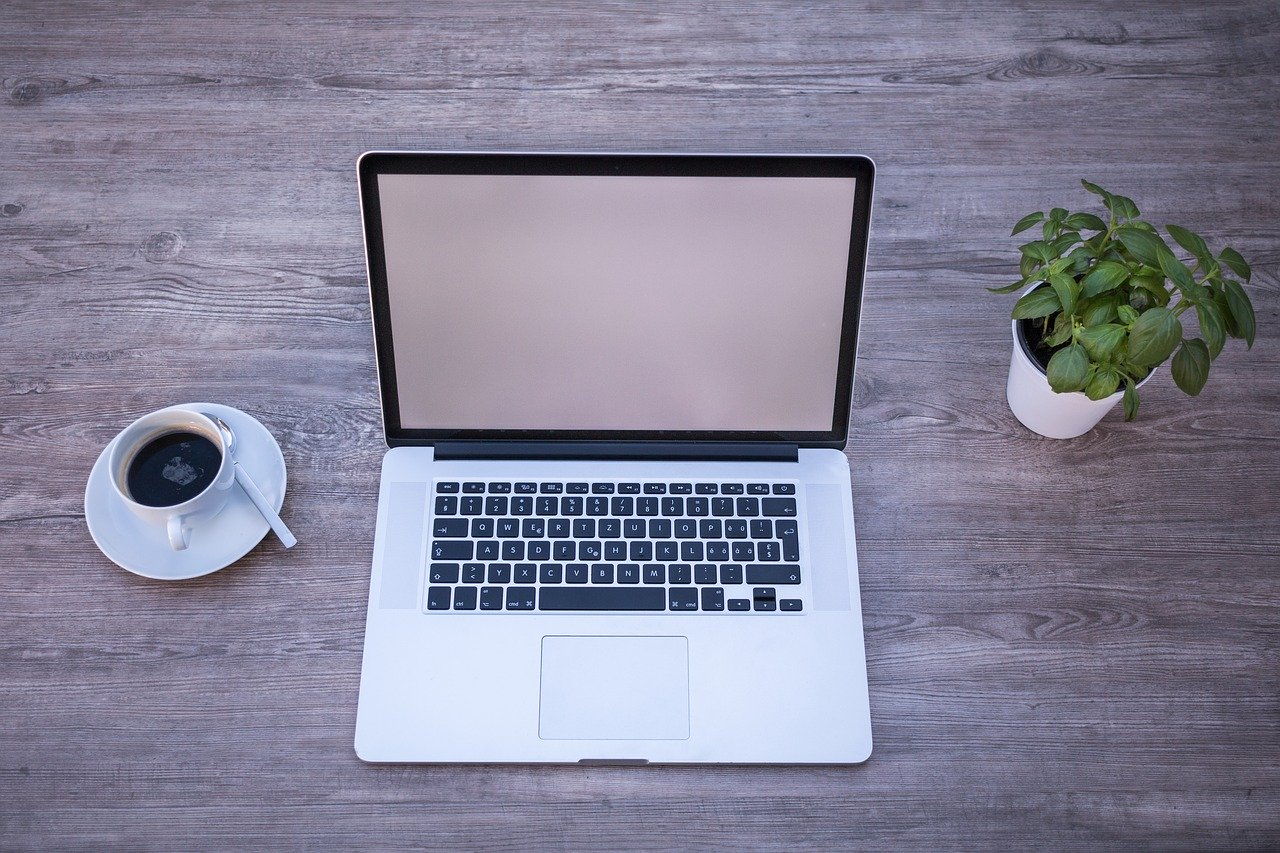
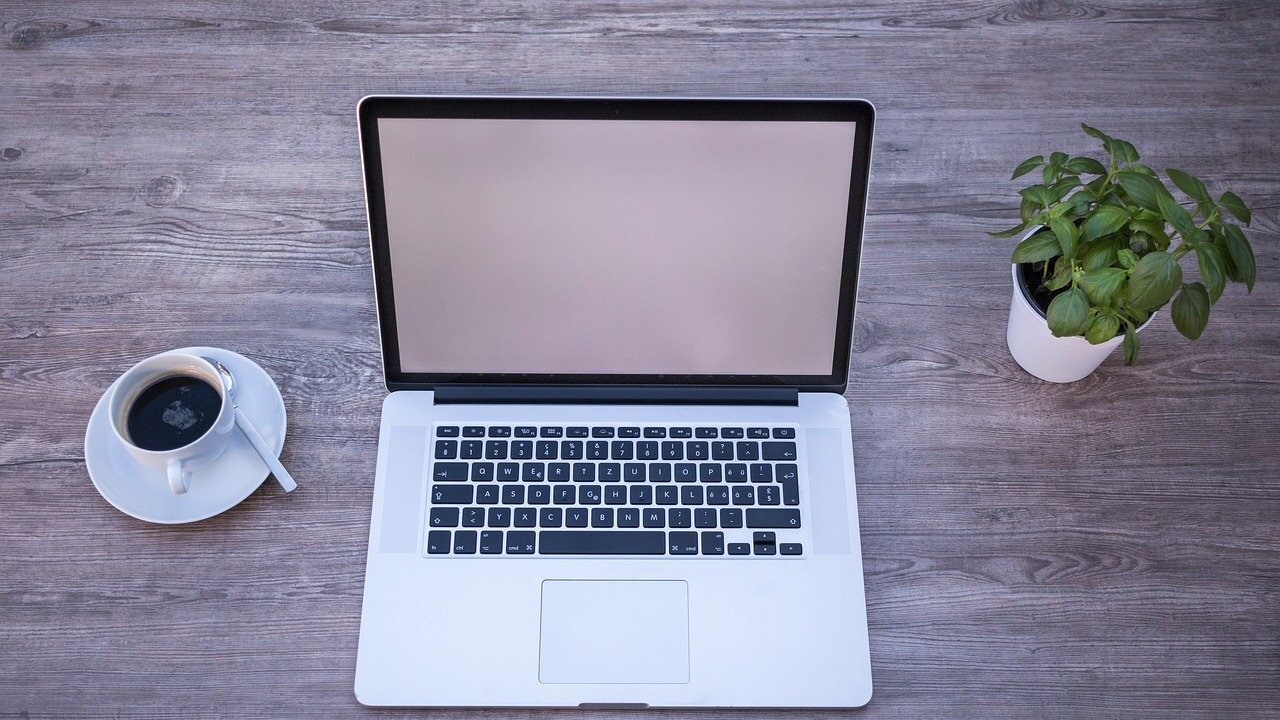
img: change preview images c6f26fabb779c7d7cf93e5ddfc898dea232567e0

diff --git a/what-is-runtime/index.html b/what-is-runtime/index.html
@@ -15,7 +15,7 @@
 <link rel=icon type=image/png sizes=32x32 href=/favicon-32x32.png>
 <link rel=icon type=image/png sizes=16x16 href=/favicon-16x16.png>
 <link rel=icon type=image/png sizes=192x192 href=/android-chrome-192x192.png>
-<link rel=icon type=image/png sizes=512x512 href=/android-chrome-512x512.png><link rel=apple-touch-icon sizes=180x180 href=/apple-touch-icon.png><link rel=mask-icon href=/safari-pinned-tab.svg color=#5bbad5><link rel=manifest href=/site.webmanifest><link rel=canonical href=https://ryderfang.com/what-is-runtime/><link rel=stylesheet href=/lib/normalize/normalize.min.css><link rel=stylesheet href=/lib/prismjs/prism.css><link rel=stylesheet href=/css/style.min.css><link rel=stylesheet href=/lib/animate/animate.min.css><script type=application/ld+json>{"@context":"http://schema.org","@type":"BlogPosting","headline":"ObjC 之 Runtime 是个啥","inLanguage":"zh-cn","mainEntityOfPage":{"@type":"WebPage","@id":"https:\/\/ryderfang.com\/what-is-runtime\/"},"image":[{"@type":"ImageObject","url":"https:\/\/ryderfang.com\/what-is-runtime\/featured-image.jpg","width":1280,"height":853}],"genre":"posts","keywords":"ObjC, Runtime","wordCount":583,"url":"https:\/\/ryderfang.com\/what-is-runtime\/","datePublished":"2021-12-28T14:51:24+08:00","dateModified":"2021-12-28T14:51:24+08:00","license":"This work is licensed under a Creative Commons Attribution-NonCommercial 4.0 International License.","publisher":{"@type":"Person","name":"","image":[{"@type":"ImageObject","url":"https:\/\/ryder-1252249141.cos.ap-shanghai.myqcloud.com\/uPic\/2021-11-05-avatar2.jpg"}]},"author":{"@type":"Person","name":""},"description":""}</script><script type=application/ld+json>{"@context":"https://schema.org","@type":"BreadcrumbList","itemListElement":[{"@type":"ListItem","position":1,"name":"主页","item":"https:\/\/ryderfang.com\/"},{"@type":"ListItem","position":2,"name":"ObjC","item":"https://ryderfang.com/categories/objc/"},{"@type":"ListItem","position":3,"name":"ObjC 之 Runtime 是个啥"}]}</script></head>
+<link rel=icon type=image/png sizes=512x512 href=/android-chrome-512x512.png><link rel=apple-touch-icon sizes=180x180 href=/apple-touch-icon.png><link rel=mask-icon href=/safari-pinned-tab.svg color=#5bbad5><link rel=manifest href=/site.webmanifest><link rel=canonical href=https://ryderfang.com/what-is-runtime/><link rel=stylesheet href=/lib/normalize/normalize.min.css><link rel=stylesheet href=/lib/prismjs/prism.css><link rel=stylesheet href=/css/style.min.css><link rel=stylesheet href=/lib/animate/animate.min.css><script type=application/ld+json>{"@context":"http://schema.org","@type":"BlogPosting","headline":"ObjC 之 Runtime 是个啥","inLanguage":"zh-cn","mainEntityOfPage":{"@type":"WebPage","@id":"https:\/\/ryderfang.com\/what-is-runtime\/"},"image":[{"@type":"ImageObject","url":"https:\/\/ryderfang.com\/what-is-runtime\/featured-image.jpg","width":1280,"height":720}],"genre":"posts","keywords":"ObjC, Runtime","wordCount":582,"url":"https:\/\/ryderfang.com\/what-is-runtime\/","datePublished":"2021-12-28T14:51:24+08:00","dateModified":"2021-12-28T14:51:24+08:00","license":"This work is licensed under a Creative Commons Attribution-NonCommercial 4.0 International License.","publisher":{"@type":"Person","name":"","image":[{"@type":"ImageObject","url":"https:\/\/ryder-1252249141.cos.ap-shanghai.myqcloud.com\/uPic\/2021-11-05-avatar2.jpg"}]},"author":{"@type":"Person","name":""},"description":""}</script><script type=application/ld+json>{"@context":"https://schema.org","@type":"BreadcrumbList","itemListElement":[{"@type":"ListItem","position":1,"name":"主页","item":"https:\/\/ryderfang.com\/"},{"@type":"ListItem","position":2,"name":"ObjC","item":"https://ryderfang.com/categories/objc/"},{"@type":"ListItem","position":3,"name":"ObjC 之 Runtime 是个啥"}]}</script></head>
 <body data-header-desktop=fixed data-header-mobile=auto><script>(window.localStorage&&localStorage.getItem('theme')?localStorage.getItem('theme')==='dark':'auto'==='auto'?window.matchMedia('(prefers-color-scheme: dark)').matches:'auto'==='dark')&&document.body.setAttribute('theme','dark')</script>
 <div id=mask></div><div class=wrapper><header>
 <div class="desktop header" id=header-desktop>
@@ -121,7 +121,7 @@
 </span><span class="post-meta-date meta-item">
 <span class="svg-icon icon-clock"></span><time class=timeago datetime=2021-12-28>2021-12-28</time>
 </span><span class="post-meta-words meta-item">
-<span class="svg-icon icon-pencil"></span>约 583 字
+<span class="svg-icon icon-pencil"></span>约 582 字
 </span>
 <span class="post-meta-reading meta-item">
 <span class="svg-icon icon-stopwatch"></span>预计阅读 2 分钟
@@ -176,7 +176,7 @@
 <p><a href=https://blog.youxu.info/2010/02/28/why-mac-os-x-for-programmers/ target=_blank rel="noopener noreffer">SmallTalk 领先了时代 20 年</a>，至今 OC 仍然没有实现它的全部特性。</p>
 <h2 id=runtime-version class=headerLink><a href=#runtime-version class=header-mark></a>Runtime Version</h2><p>存在两个版本的 Runtime，<code>modern</code> 和 <code>legacy</code>：</p>
 <p><a href=https://developer.apple.com/library/archive/documentation/Cocoa/Conceptual/ObjCRuntimeGuide/Articles/ocrtVersionsPlatforms.html#//apple_ref/doc/uid/TP40008048-CH106-SW1 target=_blank rel="noopener noreffer">https://developer.apple.com/library/archive/documentation/Cocoa/Conceptual/ObjCRuntimeGuide/Articles/ocrtVersionsPlatforms.html#//apple_ref/doc/uid/TP40008048-CH106-SW1</a></p>
-<p>按照官方的说明，iPhone 和 10.5 版本之后的 64 位程序都使用的 OC 2.0。</p>
+<p>按照官方的说明，所有 iPhone 和 10.5 版本之后的 Mac OSX 64 位程序都使用的 OC 2.0。</p>
 <p>Runtime 源码: <a href=https://opensource.apple.com/source/objc4/ target=_blank rel="noopener noreffer">https://opensource.apple.com/source/objc4/</a></p>
 <p>下载 tarballs: <a href=https://opensource.apple.com/tarballs/objc4/ target=_blank rel="noopener noreffer">https://opensource.apple.com/tarballs/objc4/</a></p>
 <p>可调试项目: <a href=https://github.com/RetVal/objc-runtime target=_blank rel="noopener noreffer">https://github.com/RetVal/objc-runtime</a></p>

diff --git a/class-object-isa/index.html b/class-object-isa/index.html
@@ -2,12 +2,12 @@
 <head>
 <meta charset=utf-8>
 <meta name=viewport content="width=device-width,initial-scale=1"><meta name=robots content="noodp"><title>Class, Object 与 isa | 热爱可抵岁月漫长</title><meta name=twitter:card content="summary_large_image">
-<meta name=twitter:image content="https://ryderfang.com/class-object-isa/featured-image.png">
+<meta name=twitter:image content="https://ryderfang.com/class-object-isa/featured-image.jpg">
 <meta name=twitter:title content="Class, Object 与 isa">
 <meta name=twitter:description content><meta name=twitter:creator content="@ryderfang"><meta name=Description content="About uBlogger Theme"><meta property="og:title" content="Class, Object 与 isa">
 <meta property="og:description" content="作为 Runtime 系列的第一篇博文（也是 2022 年第一篇），先从最基础的对象、类开始学习。 参考 OC 编译过程 我们可以借助 clang 工具将 OC 源码预处理成 CPP 来窥探 OC 的内部实现">
 <meta property="og:type" content="article">
-<meta property="og:url" content="https://ryderfang.com/class-object-isa/"><meta property="og:image" content="https://ryderfang.com/class-object-isa/featured-image.png"><meta property="article:section" content="posts">
+<meta property="og:url" content="https://ryderfang.com/class-object-isa/"><meta property="og:image" content="https://ryderfang.com/class-object-isa/featured-image.jpg"><meta property="article:section" content="posts">
 <meta property="article:published_time" content="2022-01-04T20:19:38+08:00">
 <meta property="article:modified_time" content="2022-01-04T20:19:38+08:00"><meta property="og:site_name" content="热爱可抵岁月漫长">
 <meta name=application-name content="uBlogger">
@@ -15,7 +15,7 @@
 <link rel=icon type=image/png sizes=32x32 href=/favicon-32x32.png>
 <link rel=icon type=image/png sizes=16x16 href=/favicon-16x16.png>
 <link rel=icon type=image/png sizes=192x192 href=/android-chrome-192x192.png>
-<link rel=icon type=image/png sizes=512x512 href=/android-chrome-512x512.png><link rel=apple-touch-icon sizes=180x180 href=/apple-touch-icon.png><link rel=mask-icon href=/safari-pinned-tab.svg color=#5bbad5><link rel=manifest href=/site.webmanifest><link rel=canonical href=https://ryderfang.com/class-object-isa/><link rel=stylesheet href=/lib/normalize/normalize.min.css><link rel=stylesheet href=/lib/prismjs/prism.css><link rel=stylesheet href=/css/style.min.css><link rel=stylesheet href=/lib/animate/animate.min.css><script type=application/ld+json>{"@context":"http://schema.org","@type":"BlogPosting","headline":"Class, Object 与 isa","inLanguage":"zh-cn","mainEntityOfPage":{"@type":"WebPage","@id":"https:\/\/ryderfang.com\/class-object-isa\/"},"image":[{"@type":"ImageObject","url":"https:\/\/ryderfang.com\/class-object-isa\/featured-image.png","width":1506,"height":782}],"genre":"posts","wordCount":1072,"url":"https:\/\/ryderfang.com\/class-object-isa\/","datePublished":"2022-01-04T20:19:38+08:00","dateModified":"2022-01-04T20:19:38+08:00","license":"This work is licensed under a Creative Commons Attribution-NonCommercial 4.0 International License.","publisher":{"@type":"Person","name":"","image":[{"@type":"ImageObject","url":"https:\/\/ryder-1252249141.cos.ap-shanghai.myqcloud.com\/uPic\/2021-11-05-avatar2.jpg"}]},"author":{"@type":"Person","name":""},"description":""}</script></head>
+<link rel=icon type=image/png sizes=512x512 href=/android-chrome-512x512.png><link rel=apple-touch-icon sizes=180x180 href=/apple-touch-icon.png><link rel=mask-icon href=/safari-pinned-tab.svg color=#5bbad5><link rel=manifest href=/site.webmanifest><link rel=canonical href=https://ryderfang.com/class-object-isa/><link rel=stylesheet href=/lib/normalize/normalize.min.css><link rel=stylesheet href=/lib/prismjs/prism.css><link rel=stylesheet href=/css/style.min.css><link rel=stylesheet href=/lib/animate/animate.min.css><script type=application/ld+json>{"@context":"http://schema.org","@type":"BlogPosting","headline":"Class, Object 与 isa","inLanguage":"zh-cn","mainEntityOfPage":{"@type":"WebPage","@id":"https:\/\/ryderfang.com\/class-object-isa\/"},"image":[{"@type":"ImageObject","url":"https:\/\/ryderfang.com\/class-object-isa\/featured-image.jpg","width":1600,"height":900}],"genre":"posts","wordCount":1072,"url":"https:\/\/ryderfang.com\/class-object-isa\/","datePublished":"2022-01-04T20:19:38+08:00","dateModified":"2022-01-04T20:19:38+08:00","license":"This work is licensed under a Creative Commons Attribution-NonCommercial 4.0 International License.","publisher":{"@type":"Person","name":"","image":[{"@type":"ImageObject","url":"https:\/\/ryder-1252249141.cos.ap-shanghai.myqcloud.com\/uPic\/2021-11-05-avatar2.jpg"}]},"author":{"@type":"Person","name":""},"description":""}</script></head>
 <body data-header-desktop=fixed data-header-mobile=auto><script>(window.localStorage&&localStorage.getItem('theme')?localStorage.getItem('theme')==='dark':'auto'==='auto'?window.matchMedia('(prefers-color-scheme: dark)').matches:'auto'==='dark')&&document.body.setAttribute('theme','dark')</script>
 <div id=mask></div><div class=wrapper><header>
 <div class="desktop header" id=header-desktop>
@@ -131,7 +131,7 @@
 <div class="article-post toc-start">
 <div class="content-block content-block-first content-block-position">
 <div class="post single"><div class=image-theme-classic>
-<img src=https://ryderfang.com/class-object-isa/featured-image.png style=width:100%>
+<img src=https://ryderfang.com/class-object-isa/featured-image.jpg style=width:100%>
 </div><div class="details toc" id=toc-static data-kept>
 <div class="details-summary toc-title">
 <span>目录</span>

diff --git a/index.html b/index.html
@@ -109,7 +109,7 @@
 </aside>
 <article itemscope itemtype=http://schema.org/Article>
 <div class="summary summary-animation" style=margin-bottom:0>
-<header><div class=featured-image-preview><a href=/class-object-isa/ target=_self><img loading=lazy decoding=async src=/class-object-isa/featured-image_hued520925d6e88d23cd28153f9be969dc_248667_796x238_fill_q90_box_center_3.png alt="Class, Object 与 isa" title="Class, Object 与 isa" height=798 width=238></a>
+<header><div class=featured-image-preview><a href=/class-object-isa/ target=_self><img loading=lazy decoding=async src=/class-object-isa/featured-image_hue46d1c81c1d52c68cb6a157794d24e27_60802_796x238_fill_q90_box_center.jpg alt="Class, Object 与 isa" title="Class, Object 与 isa" height=798 width=238></a>
 </div><div style=padding-top:20px;padding-left:20px;padding-right:20px><h2 class=summary-title itemprop="name headline">
 <a href=/class-object-isa/ target=_self>Class, Object 与 isa</a>
 </h2><div class="post-meta summary-post-meta"><span class="meta-item post-author"><a href=https://github.com/ryderfang/ title=Author target=_blank rel="noopener noreffer author" class=author><span class="svg-icon icon-pencil"></span>ryder</a></span><span class="meta-item post-publish"><span class="svg-icon icon-clock"></span><time class=timeago datetime=2022-01-04>2022-01-04</time></span></div></div>
@@ -135,7 +135,7 @@
 </article>
 <article itemscope itemtype=http://schema.org/Article>
 <div class="summary summary-animation" style=margin-bottom:0>
-<header><div class=featured-image-preview><div class=post-tags-summary-image><a class=post-tag-summary href=/tags/objc/><span>ObjC</span></a><a class=post-tag-summary href=/tags/runtime/><span>Runtime</span></a></div><a href=/what-is-runtime/ target=_self><img loading=lazy decoding=async src=/what-is-runtime/featured-image_huc3c89d392d112f379561867254f16639_260251_796x238_fill_q90_box_center.jpg alt="ObjC 之 Runtime 是个啥" title="ObjC 之 Runtime 是个啥" height=798 width=238></a>
+<header><div class=featured-image-preview><div class=post-tags-summary-image><a class=post-tag-summary href=/tags/objc/><span>ObjC</span></a><a class=post-tag-summary href=/tags/runtime/><span>Runtime</span></a></div><a href=/what-is-runtime/ target=_self><img loading=lazy decoding=async src=/what-is-runtime/featured-image_huce24f78530aa4fb0d20f0fa969b67ab6_228790_796x238_fill_q90_box_center.jpg alt="ObjC 之 Runtime 是个啥" title="ObjC 之 Runtime 是个啥" height=798 width=238></a>
 </div><div style=padding-top:20px;padding-left:20px;padding-right:20px><h2 class=summary-title itemprop="name headline">
 <a href=/what-is-runtime/ target=_self>ObjC 之 Runtime 是个啥</a>
 </h2><div class="post-meta summary-post-meta"><span class="meta-item post-category">
@@ -166,7 +166,7 @@
 </article>
 <article itemscope itemtype=http://schema.org/Article>
 <div class="summary summary-animation" style=margin-bottom:0>
-<header><div class=featured-image-preview><div class=post-tags-summary-image><a class=post-tag-summary href=/tags/flag/><span>Flag</span></a></div><a href=/2021-personal-challeng/ target=_self><img loading=lazy decoding=async src=/2021-personal-challeng/featured-image_hu28974b76c8f78030ff2b69e65516ed32_362300_796x238_fill_q90_box_center.jpg alt="2021 个人目标 🎯" title="2021 个人目标 🎯" height=798 width=238></a>
+<header><div class=featured-image-preview><div class=post-tags-summary-image><a class=post-tag-summary href=/tags/flag/><span>Flag</span></a></div><a href=/2021-personal-challeng/ target=_self><img loading=lazy decoding=async src=/2021-personal-challeng/featured-image_hu03b188f4467ebd00703629b8b4070c2b_325779_796x238_fill_q90_box_center.jpg alt="2021 个人目标 🎯" title="2021 个人目标 🎯" height=798 width=238></a>
 </div><div style=padding-top:20px;padding-left:20px;padding-right:20px><h2 class=summary-title itemprop="name headline">
 <a href=/2021-personal-challeng/ target=_self>2021 个人目标 🎯</a>
 </h2><div class="post-meta summary-post-meta"><span class="meta-item post-category">
@@ -181,7 +181,7 @@
 </article>
 <article itemscope itemtype=http://schema.org/Article>
 <div class="summary summary-animation" style=margin-bottom:0>
-<header><div class=featured-image-preview><div class=post-tags-summary-image><a class=post-tag-summary href=/tags/flag/><span>Flag</span></a></div><a href=/2018-personal-challenge/ target=_self><img loading=lazy decoding=async src=/2018-personal-challenge/featured-image_hu890bbee8673510d6bf42931b6835408f_238589_796x238_fill_q90_box_center.jpg alt="2018 个人目标 🎯" title="2018 个人目标 🎯" height=798 width=238></a>
+<header><div class=featured-image-preview><div class=post-tags-summary-image><a class=post-tag-summary href=/tags/flag/><span>Flag</span></a></div><a href=/2018-personal-challenge/ target=_self><img loading=lazy decoding=async src=/2018-personal-challenge/featured-image_huf203e1bddf890021bde71361abf4e81a_162286_796x238_fill_q90_box_center.jpg alt="2018 个人目标 🎯" title="2018 个人目标 🎯" height=798 width=238></a>
 </div><div style=padding-top:20px;padding-left:20px;padding-right:20px><h2 class=summary-title itemprop="name headline">
 <a href=/2018-personal-challenge/ target=_self>2018 个人目标 🎯</a>
 </h2><div class="post-meta summary-post-meta"><span class="meta-item post-category">

diff --git a/chromium-api-keys/index.html b/chromium-api-keys/index.html
@@ -15,7 +15,7 @@
 <link rel=icon type=image/png sizes=32x32 href=/favicon-32x32.png>
 <link rel=icon type=image/png sizes=16x16 href=/favicon-16x16.png>
 <link rel=icon type=image/png sizes=192x192 href=/android-chrome-192x192.png>
-<link rel=icon type=image/png sizes=512x512 href=/android-chrome-512x512.png><link rel=apple-touch-icon sizes=180x180 href=/apple-touch-icon.png><link rel=mask-icon href=/safari-pinned-tab.svg color=#5bbad5><link rel=manifest href=/site.webmanifest><link rel=canonical href=https://ryderfang.com/chromium-api-keys/><link rel=stylesheet href=/lib/normalize/normalize.min.css><link rel=stylesheet href=/lib/prismjs/prism.css><link rel=stylesheet href=/css/style.min.css><link rel=stylesheet href=/lib/animate/animate.min.css><script type=application/ld+json>{"@context":"http://schema.org","@type":"BlogPosting","headline":"Chromium 缺少 Google API 密钥解决办法","inLanguage":"zh-cn","mainEntityOfPage":{"@type":"WebPage","@id":"https:\/\/ryderfang.com\/chromium-api-keys\/"},"image":[{"@type":"ImageObject","url":"https:\/\/ryderfang.com\/chromium-api-keys\/featured-image.jpg","width":1500,"height":1e3}],"genre":"posts","keywords":"Chrome","wordCount":389,"url":"https:\/\/ryderfang.com\/chromium-api-keys\/","datePublished":"2018-01-26T20:19:18+08:00","dateModified":"2018-01-26T20:19:18+08:00","license":"This work is licensed under a Creative Commons Attribution-NonCommercial 4.0 International License.","publisher":{"@type":"Person","name":"","image":[{"@type":"ImageObject","url":"https:\/\/ryder-1252249141.cos.ap-shanghai.myqcloud.com\/uPic\/2021-11-05-avatar2.jpg"}]},"author":{"@type":"Person","name":""},"description":""}</script><script type=application/ld+json>{"@context":"https://schema.org","@type":"BreadcrumbList","itemListElement":[{"@type":"ListItem","position":1,"name":"主页","item":"https:\/\/ryderfang.com\/"},{"@type":"ListItem","position":2,"name":"RTFM","item":"https://ryderfang.com/categories/rtfm/"},{"@type":"ListItem","position":3,"name":"Chromium 缺少 Google API 密钥解决办法"}]}</script></head>
+<link rel=icon type=image/png sizes=512x512 href=/android-chrome-512x512.png><link rel=apple-touch-icon sizes=180x180 href=/apple-touch-icon.png><link rel=mask-icon href=/safari-pinned-tab.svg color=#5bbad5><link rel=manifest href=/site.webmanifest><link rel=canonical href=https://ryderfang.com/chromium-api-keys/><link rel=stylesheet href=/lib/normalize/normalize.min.css><link rel=stylesheet href=/lib/prismjs/prism.css><link rel=stylesheet href=/css/style.min.css><link rel=stylesheet href=/lib/animate/animate.min.css><script type=application/ld+json>{"@context":"http://schema.org","@type":"BlogPosting","headline":"Chromium 缺少 Google API 密钥解决办法","inLanguage":"zh-cn","mainEntityOfPage":{"@type":"WebPage","@id":"https:\/\/ryderfang.com\/chromium-api-keys\/"},"image":[{"@type":"ImageObject","url":"https:\/\/ryderfang.com\/chromium-api-keys\/featured-image.jpg","width":1500,"height":844}],"genre":"posts","keywords":"Chrome","wordCount":389,"url":"https:\/\/ryderfang.com\/chromium-api-keys\/","datePublished":"2018-01-26T20:19:18+08:00","dateModified":"2018-01-26T20:19:18+08:00","license":"This work is licensed under a Creative Commons Attribution-NonCommercial 4.0 International License.","publisher":{"@type":"Person","name":"","image":[{"@type":"ImageObject","url":"https:\/\/ryder-1252249141.cos.ap-shanghai.myqcloud.com\/uPic\/2021-11-05-avatar2.jpg"}]},"author":{"@type":"Person","name":""},"description":""}</script><script type=application/ld+json>{"@context":"https://schema.org","@type":"BreadcrumbList","itemListElement":[{"@type":"ListItem","position":1,"name":"主页","item":"https:\/\/ryderfang.com\/"},{"@type":"ListItem","position":2,"name":"RTFM","item":"https://ryderfang.com/categories/rtfm/"},{"@type":"ListItem","position":3,"name":"Chromium 缺少 Google API 密钥解决办法"}]}</script></head>
 <body data-header-desktop=fixed data-header-mobile=auto><script>(window.localStorage&&localStorage.getItem('theme')?localStorage.getItem('theme')==='dark':'auto'==='auto'?window.matchMedia('(prefers-color-scheme: dark)').matches:'auto'==='dark')&&document.body.setAttribute('theme','dark')</script>
 <div id=mask></div><div class=wrapper><header>
 <div class="desktop header" id=header-desktop>

diff --git a/2021-personal-challeng/index.html b/2021-personal-challeng/index.html
@@ -15,7 +15,7 @@
 <link rel=icon type=image/png sizes=32x32 href=/favicon-32x32.png>
 <link rel=icon type=image/png sizes=16x16 href=/favicon-16x16.png>
 <link rel=icon type=image/png sizes=192x192 href=/android-chrome-192x192.png>
-<link rel=icon type=image/png sizes=512x512 href=/android-chrome-512x512.png><link rel=apple-touch-icon sizes=180x180 href=/apple-touch-icon.png><link rel=mask-icon href=/safari-pinned-tab.svg color=#5bbad5><link rel=manifest href=/site.webmanifest><link rel=canonical href=https://ryderfang.com/2021-personal-challeng/><link rel=stylesheet href=/lib/normalize/normalize.min.css><link rel=stylesheet href=/lib/prismjs/prism.css><link rel=stylesheet href=/css/style.min.css><link rel=stylesheet href=/lib/animate/animate.min.css><script type=application/ld+json>{"@context":"http://schema.org","@type":"BlogPosting","headline":"2021 个人目标 🎯","inLanguage":"zh-cn","mainEntityOfPage":{"@type":"WebPage","@id":"https:\/\/ryderfang.com\/2021-personal-challeng\/"},"image":[{"@type":"ImageObject","url":"https:\/\/ryderfang.com\/2021-personal-challeng\/featured-image.jpg","width":1200,"height":800}],"genre":"posts","keywords":"Flag","wordCount":1091,"url":"https:\/\/ryderfang.com\/2021-personal-challeng\/","datePublished":"2021-11-16T16:32:25+08:00","dateModified":"2022-01-13T11:44:00+08:00","license":"This work is licensed under a Creative Commons Attribution-NonCommercial 4.0 International License.","publisher":{"@type":"Person","name":"","image":[{"@type":"ImageObject","url":"https:\/\/ryder-1252249141.cos.ap-shanghai.myqcloud.com\/uPic\/2021-11-05-avatar2.jpg"}]},"author":{"@type":"Person","name":""},"description":""}</script><script type=application/ld+json>{"@context":"https://schema.org","@type":"BreadcrumbList","itemListElement":[{"@type":"ListItem","position":1,"name":"主页","item":"https:\/\/ryderfang.com\/"},{"@type":"ListItem","position":2,"name":"Challenge","item":"https://ryderfang.com/categories/challenge/"},{"@type":"ListItem","position":3,"name":"2021 个人目标 🎯"}]}</script></head>
+<link rel=icon type=image/png sizes=512x512 href=/android-chrome-512x512.png><link rel=apple-touch-icon sizes=180x180 href=/apple-touch-icon.png><link rel=mask-icon href=/safari-pinned-tab.svg color=#5bbad5><link rel=manifest href=/site.webmanifest><link rel=canonical href=https://ryderfang.com/2021-personal-challeng/><link rel=stylesheet href=/lib/normalize/normalize.min.css><link rel=stylesheet href=/lib/prismjs/prism.css><link rel=stylesheet href=/css/style.min.css><link rel=stylesheet href=/lib/animate/animate.min.css><script type=application/ld+json>{"@context":"http://schema.org","@type":"BlogPosting","headline":"2021 个人目标 🎯","inLanguage":"zh-cn","mainEntityOfPage":{"@type":"WebPage","@id":"https:\/\/ryderfang.com\/2021-personal-challeng\/"},"image":[{"@type":"ImageObject","url":"https:\/\/ryderfang.com\/2021-personal-challeng\/featured-image.jpg","width":1200,"height":675}],"genre":"posts","keywords":"Flag","wordCount":1091,"url":"https:\/\/ryderfang.com\/2021-personal-challeng\/","datePublished":"2021-11-16T16:32:25+08:00","dateModified":"2022-01-13T11:44:00+08:00","license":"This work is licensed under a Creative Commons Attribution-NonCommercial 4.0 International License.","publisher":{"@type":"Person","name":"","image":[{"@type":"ImageObject","url":"https:\/\/ryder-1252249141.cos.ap-shanghai.myqcloud.com\/uPic\/2021-11-05-avatar2.jpg"}]},"author":{"@type":"Person","name":""},"description":""}</script><script type=application/ld+json>{"@context":"https://schema.org","@type":"BreadcrumbList","itemListElement":[{"@type":"ListItem","position":1,"name":"主页","item":"https:\/\/ryderfang.com\/"},{"@type":"ListItem","position":2,"name":"Challenge","item":"https://ryderfang.com/categories/challenge/"},{"@type":"ListItem","position":3,"name":"2021 个人目标 🎯"}]}</script></head>
 <body data-header-desktop=fixed data-header-mobile=auto><script>(window.localStorage&&localStorage.getItem('theme')?localStorage.getItem('theme')==='dark':'auto'==='auto'?window.matchMedia('(prefers-color-scheme: dark)').matches:'auto'==='dark')&&document.body.setAttribute('theme','dark')</script>
 <div id=mask></div><div class=wrapper><header>
 <div class="desktop header" id=header-desktop>

diff --git a/hexo-workflow/index.html b/hexo-workflow/index.html
@@ -23,7 +23,7 @@ $ hexo new page [name] - 新建页面
 <link rel=icon type=image/png sizes=32x32 href=/favicon-32x32.png>
 <link rel=icon type=image/png sizes=16x16 href=/favicon-16x16.png>
 <link rel=icon type=image/png sizes=192x192 href=/android-chrome-192x192.png>
-<link rel=icon type=image/png sizes=512x512 href=/android-chrome-512x512.png><link rel=apple-touch-icon sizes=180x180 href=/apple-touch-icon.png><link rel=mask-icon href=/safari-pinned-tab.svg color=#5bbad5><link rel=manifest href=/site.webmanifest><link rel=canonical href=https://ryderfang.com/hexo-workflow/><link rel=stylesheet href=/lib/normalize/normalize.min.css><link rel=stylesheet href=/lib/prismjs/prism.css><link rel=stylesheet href=/css/style.min.css><link rel=stylesheet href=/lib/animate/animate.min.css><script type=application/ld+json>{"@context":"http://schema.org","@type":"BlogPosting","headline":"使用 Hexo 遇到的一些问题","inLanguage":"zh-cn","mainEntityOfPage":{"@type":"WebPage","@id":"https:\/\/ryderfang.com\/hexo-workflow\/"},"image":[{"@type":"ImageObject","url":"https:\/\/ryderfang.com\/hexo-workflow\/featured-image.jpg","width":1896,"height":948}],"genre":"posts","keywords":"Hexo, Blog","wordCount":1e3,"url":"https:\/\/ryderfang.com\/hexo-workflow\/","datePublished":"2017-09-27T20:04:57+08:00","dateModified":"2017-09-27T20:04:57+08:00","license":"This work is licensed under a Creative Commons Attribution-NonCommercial 4.0 International License.","publisher":{"@type":"Person","name":"","image":[{"@type":"ImageObject","url":"https:\/\/ryder-1252249141.cos.ap-shanghai.myqcloud.com\/uPic\/2021-11-05-avatar2.jpg"}]},"author":{"@type":"Person","name":""},"description":""}</script><script type=application/ld+json>{"@context":"https://schema.org","@type":"BreadcrumbList","itemListElement":[{"@type":"ListItem","position":1,"name":"主页","item":"https:\/\/ryderfang.com\/"},{"@type":"ListItem","position":2,"name":"RTFM","item":"https://ryderfang.com/categories/rtfm/"},{"@type":"ListItem","position":3,"name":"使用 Hexo 遇到的一些问题"}]}</script></head>
+<link rel=icon type=image/png sizes=512x512 href=/android-chrome-512x512.png><link rel=apple-touch-icon sizes=180x180 href=/apple-touch-icon.png><link rel=mask-icon href=/safari-pinned-tab.svg color=#5bbad5><link rel=manifest href=/site.webmanifest><link rel=canonical href=https://ryderfang.com/hexo-workflow/><link rel=stylesheet href=/lib/normalize/normalize.min.css><link rel=stylesheet href=/lib/prismjs/prism.css><link rel=stylesheet href=/css/style.min.css><link rel=stylesheet href=/lib/animate/animate.min.css><script type=application/ld+json>{"@context":"http://schema.org","@type":"BlogPosting","headline":"使用 Hexo 遇到的一些问题","inLanguage":"zh-cn","mainEntityOfPage":{"@type":"WebPage","@id":"https:\/\/ryderfang.com\/hexo-workflow\/"},"image":[{"@type":"ImageObject","url":"https:\/\/ryderfang.com\/hexo-workflow\/featured-image.jpg","width":848,"height":477}],"genre":"posts","keywords":"Hexo, Blog","wordCount":1e3,"url":"https:\/\/ryderfang.com\/hexo-workflow\/","datePublished":"2017-09-27T20:04:57+08:00","dateModified":"2017-09-27T20:04:57+08:00","license":"This work is licensed under a Creative Commons Attribution-NonCommercial 4.0 International License.","publisher":{"@type":"Person","name":"","image":[{"@type":"ImageObject","url":"https:\/\/ryder-1252249141.cos.ap-shanghai.myqcloud.com\/uPic\/2021-11-05-avatar2.jpg"}]},"author":{"@type":"Person","name":""},"description":""}</script><script type=application/ld+json>{"@context":"https://schema.org","@type":"BreadcrumbList","itemListElement":[{"@type":"ListItem","position":1,"name":"主页","item":"https:\/\/ryderfang.com\/"},{"@type":"ListItem","position":2,"name":"RTFM","item":"https://ryderfang.com/categories/rtfm/"},{"@type":"ListItem","position":3,"name":"使用 Hexo 遇到的一些问题"}]}</script></head>
 <body data-header-desktop=fixed data-header-mobile=auto><script>(window.localStorage&&localStorage.getItem('theme')?localStorage.getItem('theme')==='dark':'auto'==='auto'?window.matchMedia('(prefers-color-scheme: dark)').matches:'auto'==='dark')&&document.body.setAttribute('theme','dark')</script>
 <div id=mask></div><div class=wrapper><header>
 <div class="desktop header" id=header-desktop>

diff --git a/vue-devtools/index.html b/vue-devtools/index.html
@@ -16,7 +16,7 @@
 <link rel=icon type=image/png sizes=32x32 href=/favicon-32x32.png>
 <link rel=icon type=image/png sizes=16x16 href=/favicon-16x16.png>
 <link rel=icon type=image/png sizes=192x192 href=/android-chrome-192x192.png>
-<link rel=icon type=image/png sizes=512x512 href=/android-chrome-512x512.png><link rel=apple-touch-icon sizes=180x180 href=/apple-touch-icon.png><link rel=mask-icon href=/safari-pinned-tab.svg color=#5bbad5><link rel=manifest href=/site.webmanifest><link rel=canonical href=https://ryderfang.com/vue-devtools/><link rel=stylesheet href=/lib/normalize/normalize.min.css><link rel=stylesheet href=/lib/prismjs/prism.css><link rel=stylesheet href=/css/style.min.css><link rel=stylesheet href=/lib/animate/animate.min.css><script type=application/ld+json>{"@context":"http://schema.org","@type":"BlogPosting","headline":"Vue 调试工具 Devtools","inLanguage":"zh-cn","mainEntityOfPage":{"@type":"WebPage","@id":"https:\/\/ryderfang.com\/vue-devtools\/"},"image":[{"@type":"ImageObject","url":"https:\/\/ryderfang.com\/vue-devtools\/featured-image.jpg","width":1400,"height":1120}],"genre":"posts","keywords":"Vue, Front-End","wordCount":457,"url":"https:\/\/ryderfang.com\/vue-devtools\/","datePublished":"2018-01-24T20:09:09+08:00","dateModified":"2021-11-12T11:26:13+08:00","license":"This work is licensed under a Creative Commons Attribution-NonCommercial 4.0 International License.","publisher":{"@type":"Person","name":"","image":[{"@type":"ImageObject","url":"https:\/\/ryder-1252249141.cos.ap-shanghai.myqcloud.com\/uPic\/2021-11-05-avatar2.jpg"}]},"author":{"@type":"Person","name":""},"description":""}</script><script type=application/ld+json>{"@context":"https://schema.org","@type":"BreadcrumbList","itemListElement":[{"@type":"ListItem","position":1,"name":"主页","item":"https:\/\/ryderfang.com\/"},{"@type":"ListItem","position":2,"name":"RTFM","item":"https://ryderfang.com/categories/rtfm/"},{"@type":"ListItem","position":3,"name":"Vue 调试工具 Devtools"}]}</script></head>
+<link rel=icon type=image/png sizes=512x512 href=/android-chrome-512x512.png><link rel=apple-touch-icon sizes=180x180 href=/apple-touch-icon.png><link rel=mask-icon href=/safari-pinned-tab.svg color=#5bbad5><link rel=manifest href=/site.webmanifest><link rel=canonical href=https://ryderfang.com/vue-devtools/><link rel=stylesheet href=/lib/normalize/normalize.min.css><link rel=stylesheet href=/lib/prismjs/prism.css><link rel=stylesheet href=/css/style.min.css><link rel=stylesheet href=/lib/animate/animate.min.css><script type=application/ld+json>{"@context":"http://schema.org","@type":"BlogPosting","headline":"Vue 调试工具 Devtools","inLanguage":"zh-cn","mainEntityOfPage":{"@type":"WebPage","@id":"https:\/\/ryderfang.com\/vue-devtools\/"},"image":[{"@type":"ImageObject","url":"https:\/\/ryderfang.com\/vue-devtools\/featured-image.jpg","width":1400,"height":788}],"genre":"posts","keywords":"Vue, Front-End","wordCount":457,"url":"https:\/\/ryderfang.com\/vue-devtools\/","datePublished":"2018-01-24T20:09:09+08:00","dateModified":"2021-11-12T11:26:13+08:00","license":"This work is licensed under a Creative Commons Attribution-NonCommercial 4.0 International License.","publisher":{"@type":"Person","name":"","image":[{"@type":"ImageObject","url":"https:\/\/ryder-1252249141.cos.ap-shanghai.myqcloud.com\/uPic\/2021-11-05-avatar2.jpg"}]},"author":{"@type":"Person","name":""},"description":""}</script><script type=application/ld+json>{"@context":"https://schema.org","@type":"BreadcrumbList","itemListElement":[{"@type":"ListItem","position":1,"name":"主页","item":"https:\/\/ryderfang.com\/"},{"@type":"ListItem","position":2,"name":"RTFM","item":"https://ryderfang.com/categories/rtfm/"},{"@type":"ListItem","position":3,"name":"Vue 调试工具 Devtools"}]}</script></head>
 <body data-header-desktop=fixed data-header-mobile=auto><script>(window.localStorage&&localStorage.getItem('theme')?localStorage.getItem('theme')==='dark':'auto'==='auto'?window.matchMedia('(prefers-color-scheme: dark)').matches:'auto'==='dark')&&document.body.setAttribute('theme','dark')</script>
 <div id=mask></div><div class=wrapper><header>
 <div class="desktop header" id=header-desktop>

diff --git a/page/2/index.html b/page/2/index.html
@@ -109,7 +109,7 @@
 </aside>
 <article itemscope itemtype=http://schema.org/Article>
 <div class="summary summary-animation" style=margin-bottom:0>
-<header><div class=featured-image-preview><div class=post-tags-summary-image><a class=post-tag-summary href=/tags/chrome/><span>Chrome</span></a></div><a href=/chromium-api-keys/ target=_self><img loading=lazy decoding=async src=/chromium-api-keys/featured-image_hubdb10f549fe869bb42bcd35d8c629419_89400_796x238_fill_q90_box_center.jpg alt="Chromium 缺少 Google API 密钥解决办法" title="Chromium 缺少 Google API 密钥解决办法" height=798 width=238></a>
+<header><div class=featured-image-preview><div class=post-tags-summary-image><a class=post-tag-summary href=/tags/chrome/><span>Chrome</span></a></div><a href=/chromium-api-keys/ target=_self><img loading=lazy decoding=async src=/chromium-api-keys/featured-image_hu9c15c3fc1b0038c38bb3dfbaf076c84d_86043_796x238_fill_q90_box_center.jpg alt="Chromium 缺少 Google API 密钥解决办法" title="Chromium 缺少 Google API 密钥解决办法" height=798 width=238></a>
 </div><div style=padding-top:20px;padding-left:20px;padding-right:20px><h2 class=summary-title itemprop="name headline">
 <a href=/chromium-api-keys/ target=_self>Chromium 缺少 Google API 密钥解决办法</a>
 </h2><div class="post-meta summary-post-meta"><span class="meta-item post-category">
@@ -140,7 +140,7 @@
 </article>
 <article itemscope itemtype=http://schema.org/Article>
 <div class="summary summary-animation" style=margin-bottom:0>
-<header><div class=featured-image-preview><div class=post-tags-summary-image><a class=post-tag-summary href=/tags/vue/><span>Vue</span></a><a class=post-tag-summary href=/tags/front-end/><span>Front-End</span></a></div><a href=/vue-devtools/ target=_self><img loading=lazy decoding=async src=/vue-devtools/featured-image_hu8a5b4fa55c3cb3836daed25c1081027b_483259_796x238_fill_q90_box_center.jpg alt="Vue 调试工具 Devtools" title="Vue 调试工具 Devtools" height=798 width=238></a>
+<header><div class=featured-image-preview><div class=post-tags-summary-image><a class=post-tag-summary href=/tags/vue/><span>Vue</span></a><a class=post-tag-summary href=/tags/front-end/><span>Front-End</span></a></div><a href=/vue-devtools/ target=_self><img loading=lazy decoding=async src=/vue-devtools/featured-image_hu9536337a54e687d5a79cc66c98ec6002_108039_796x238_fill_q90_box_center.jpg alt="Vue 调试工具 Devtools" title="Vue 调试工具 Devtools" height=798 width=238></a>
 </div><div style=padding-top:20px;padding-left:20px;padding-right:20px><h2 class=summary-title itemprop="name headline">
 <a href=/vue-devtools/ target=_self>Vue 调试工具 Devtools</a>
 </h2><div class="post-meta summary-post-meta"><span class="meta-item post-category">
@@ -156,7 +156,7 @@
 </article>
 <article itemscope itemtype=http://schema.org/Article>
 <div class="summary summary-animation" style=margin-bottom:0>
-<header><div class=featured-image-preview><div class=post-tags-summary-image><a class=post-tag-summary href=/tags/hexo/><span>Hexo</span></a><a class=post-tag-summary href=/tags/blog/><span>Blog</span></a></div><a href=/hexo-workflow/ target=_self><img loading=lazy decoding=async src=/hexo-workflow/featured-image_hu65d9c71348c578805764359354049859_80377_796x238_fill_q90_box_center.jpg alt="使用 Hexo 遇到的一些问题" title="使用 Hexo 遇到的一些问题" height=798 width=238></a>
+<header><div class=featured-image-preview><div class=post-tags-summary-image><a class=post-tag-summary href=/tags/hexo/><span>Hexo</span></a><a class=post-tag-summary href=/tags/blog/><span>Blog</span></a></div><a href=/hexo-workflow/ target=_self><img loading=lazy decoding=async src=/hexo-workflow/featured-image_hube2119af0cbddc06a2cabb7fc8083527_96833_796x238_fill_q90_box_center.jpg alt="使用 Hexo 遇到的一些问题" title="使用 Hexo 遇到的一些问题" height=798 width=238></a>
 </div><div style=padding-top:20px;padding-left:20px;padding-right:20px><h2 class=summary-title itemprop="name headline">
 <a href=/hexo-workflow/ target=_self>使用 Hexo 遇到的一些问题</a>
 </h2><div class="post-meta summary-post-meta"><span class="meta-item post-category">
